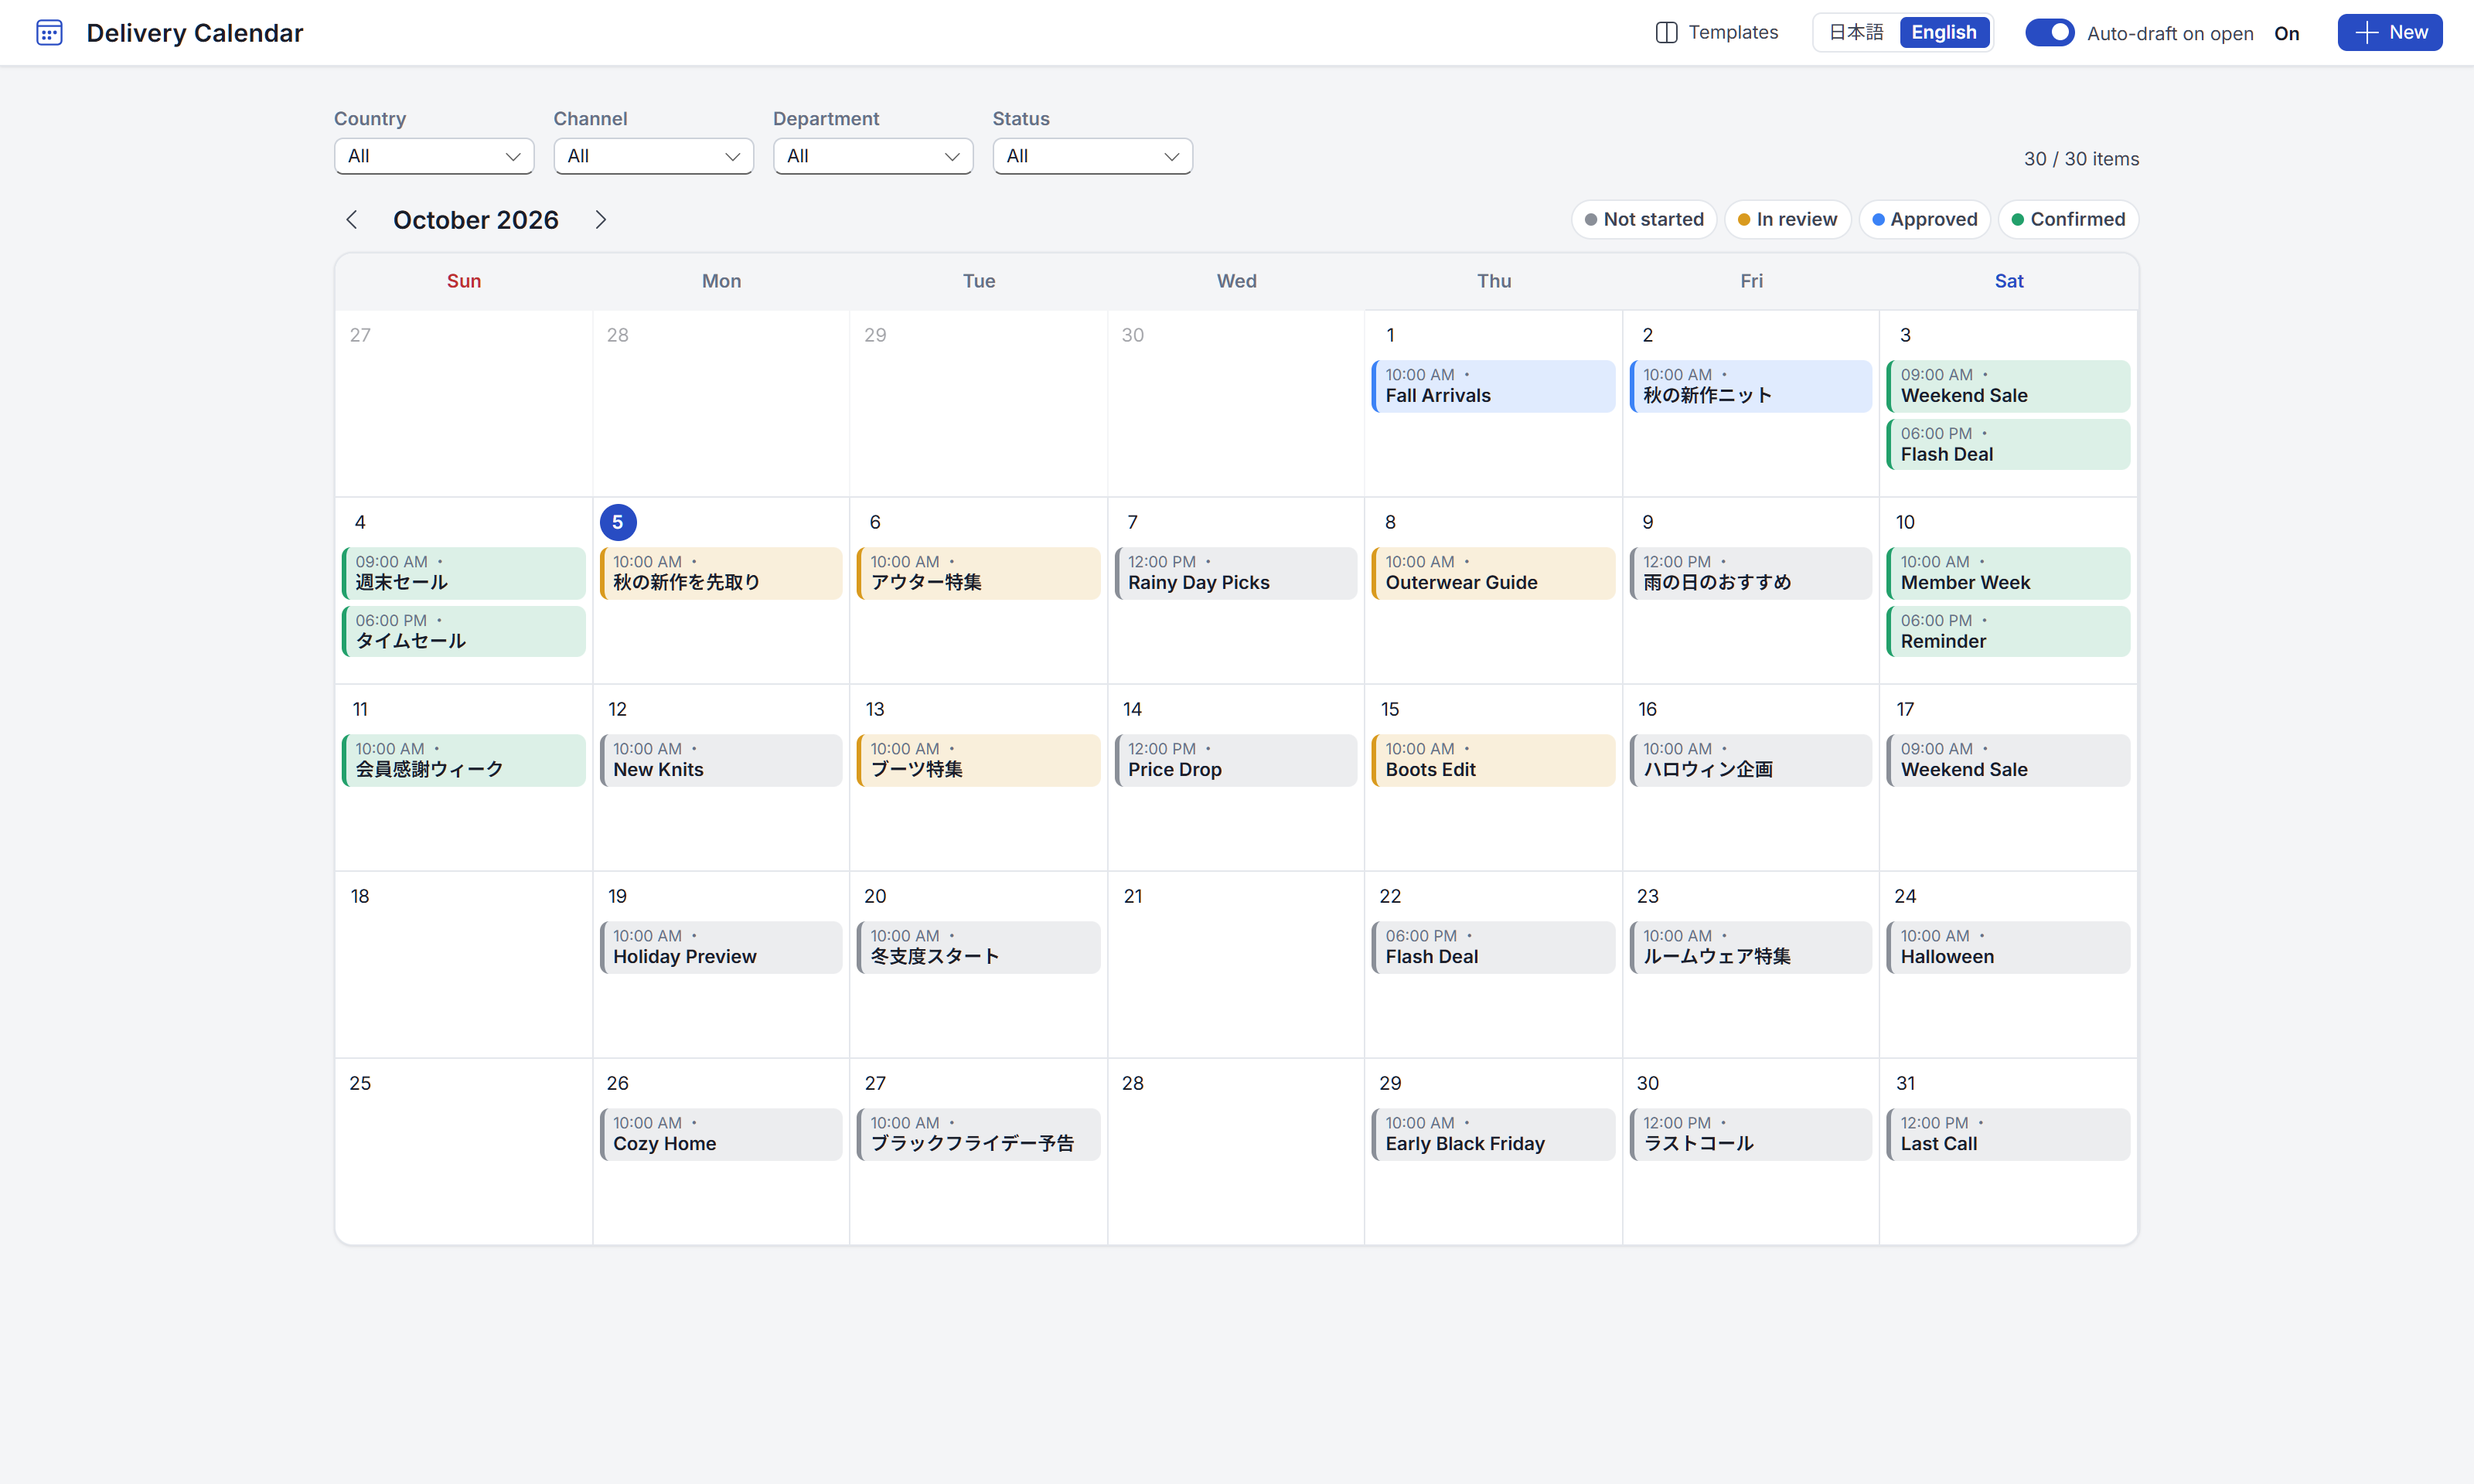
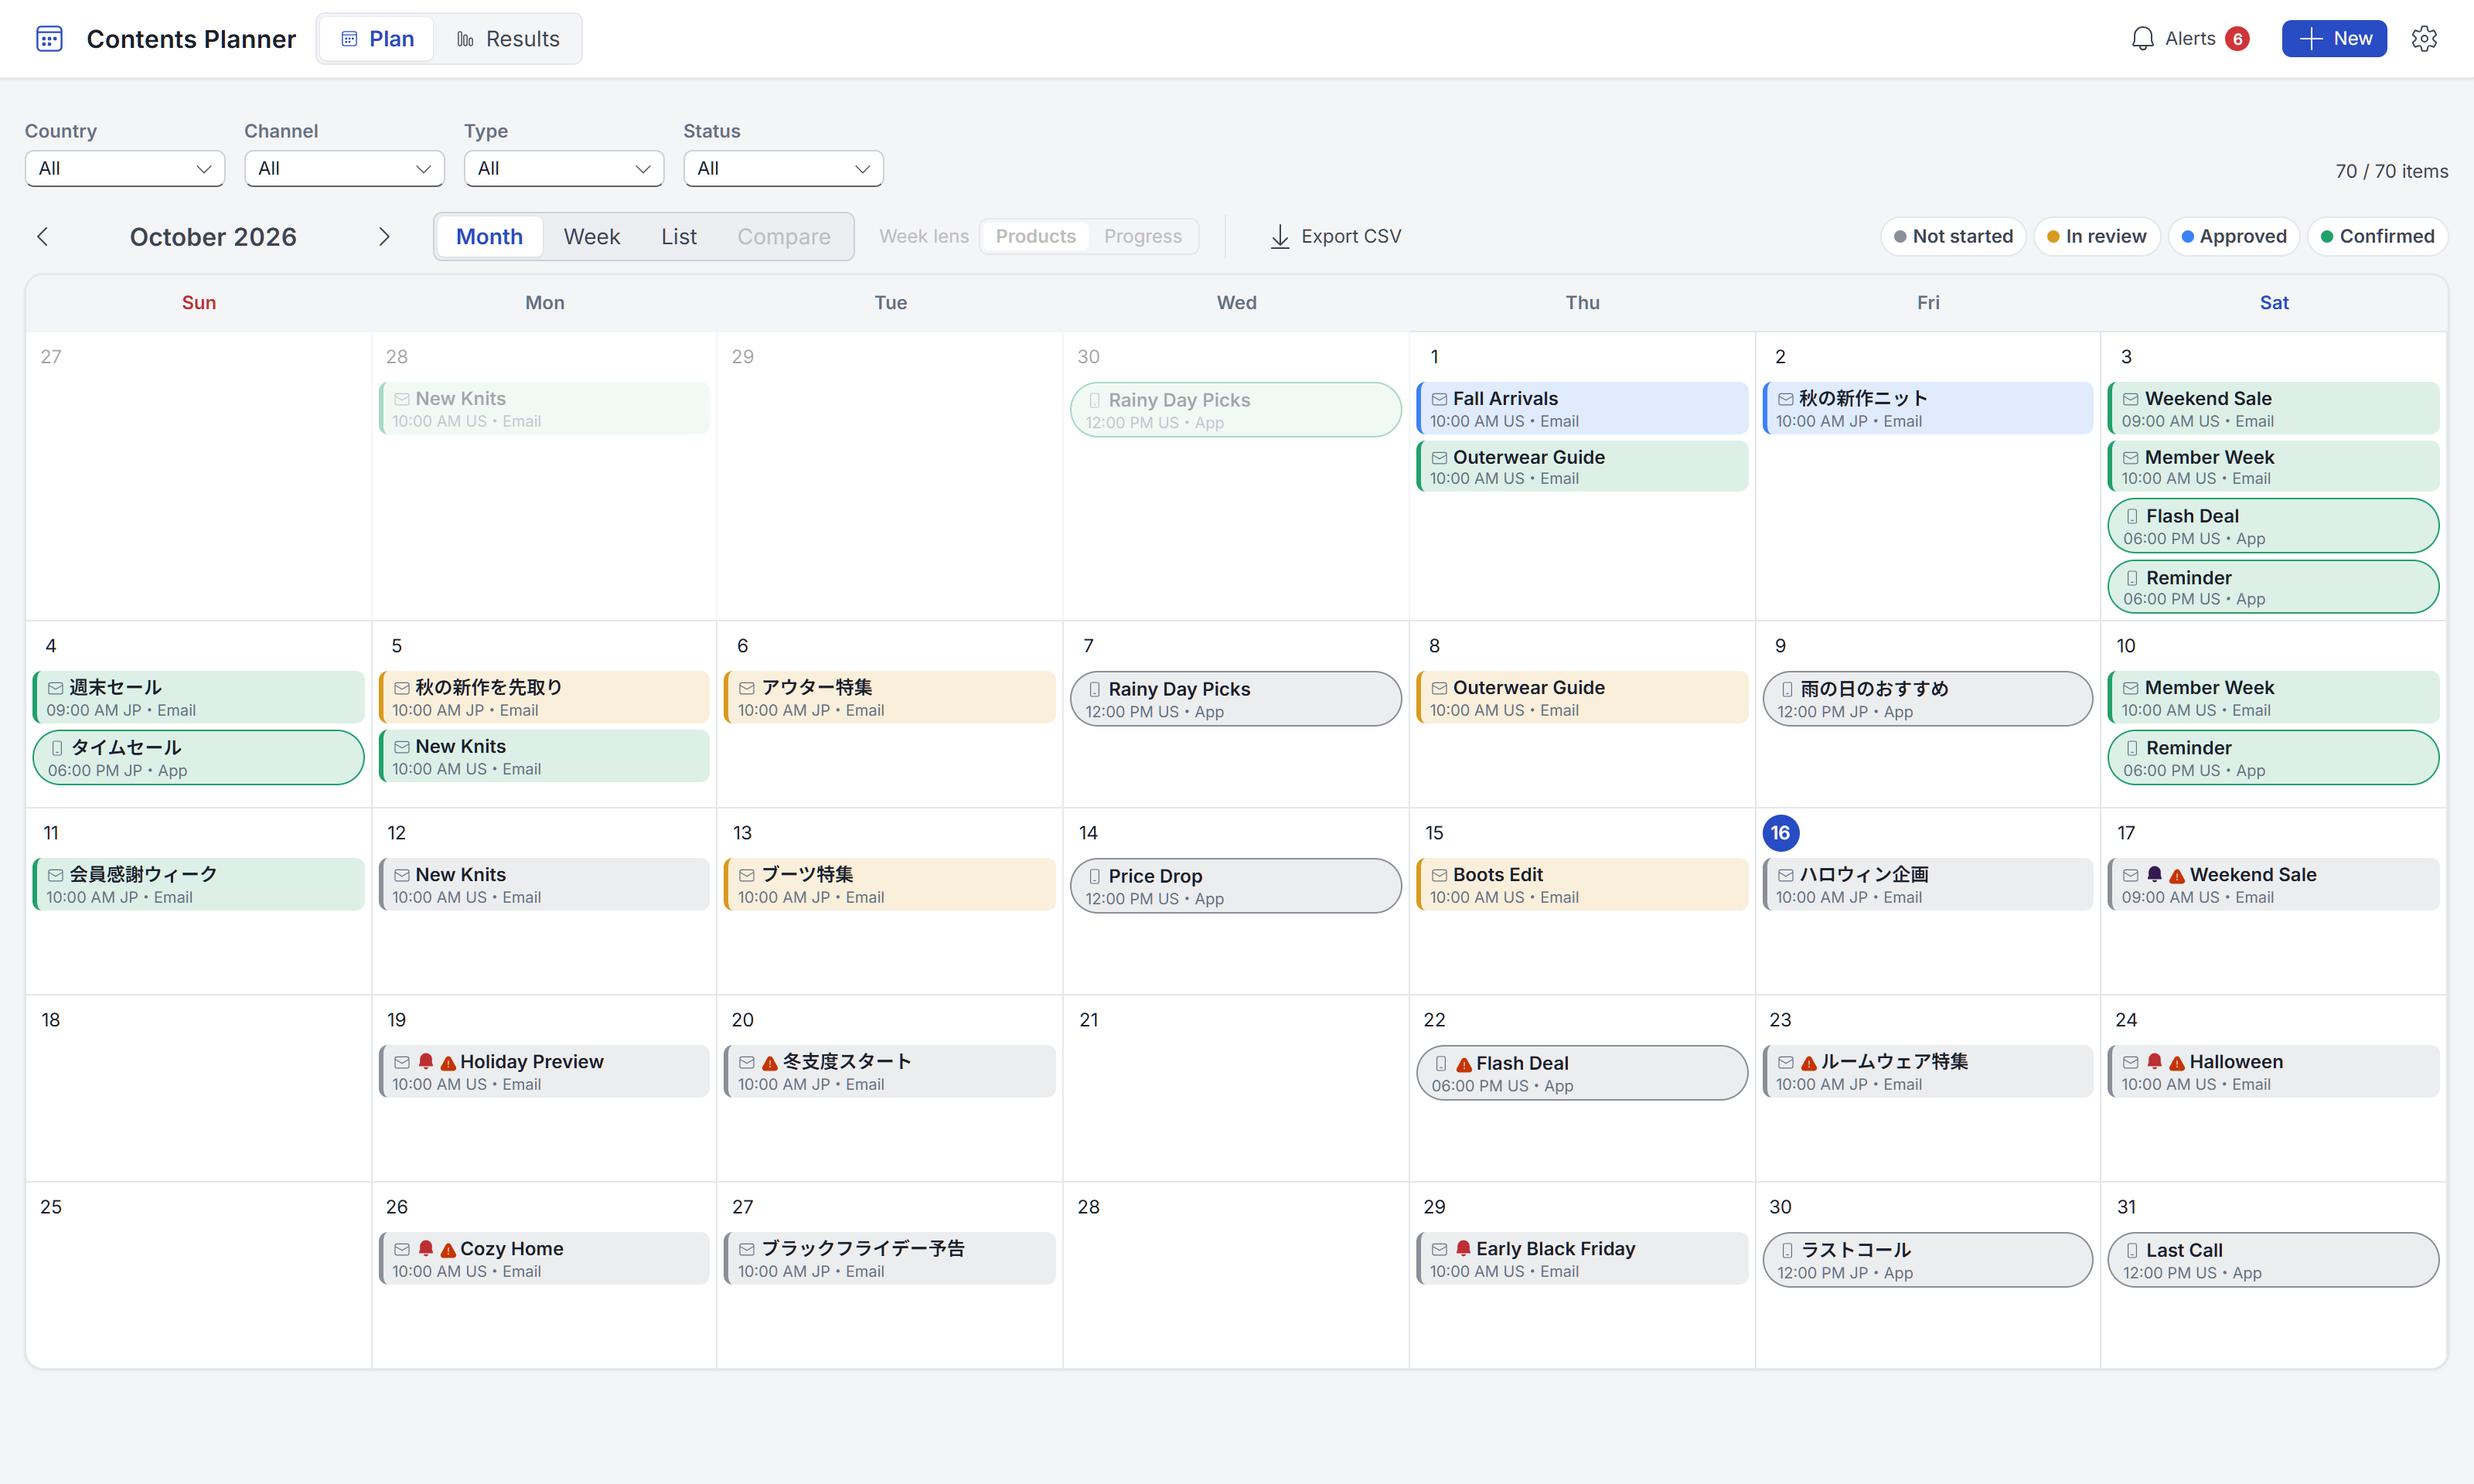
docs: スクリーンショットを、いまの画面で撮り直す(英語版のみ・39 枚)
週の表示・確認の一覧・まとめて AI で下書き・一覧・制作とのやり取り・アプリの工程・結果・アラートの場面を足した。
撮影スクリプトは、テンプレートの管理を ⚙ から開くなど、いまの画面に合わせた。SHOTS_URL・SHOTS_OUT で撮る先と保存先を変えられる。
古い日本語版は消した。

diff --git a/docs/FEATURES.md b/docs/FEATURES.md
@@ -311,25 +311,43 @@
 
 ## 12. スクリーンショット
 
-画面の画像は、**サンプルデータと模擬の AI の返答**で作ったものです(実データは写っていません。AI の文言は決まった例です)。
-ファイル名は `ja-`(日本語の画面)/ `en-`(English の画面)+ 番号 + 内容。2 倍の解像度(PNG)です。
-**注意: いまの画像は、週のレビュー・結果・アラートを作る前の画面です。** ヘッダーなど、いまの画面と違うところがあります。
+画面の画像は、**サンプルデータと模擬の AI の返答**で作ったものです(実データは写っていません。商品・メイン画像はサンプル用のイラストです。AI の文言は決まった例です)。
+ファイル名は `en-`(English の画面)+ 番号 + 内容。2 倍の解像度(PNG)です。
 
 | 番号 | 内容 | 使いどころ |
 |---|---|---|
-| 01-calendar | 配信カレンダー(月表示・状態の色分け・フィルタ) | 画面の流れ、全体像 |
-| 02-card-dialog | 配信カードの 4 ペイン(情報 / コンテンツ生成 + AIチャット / プレビュー / 商品情報) | 中心の画面 |
-| 03-product-info | 右端の商品情報ペインを開いた状態 | 商品情報 |
-| 04-theme 〜 07-sections | コンテンツ生成の各タブ(テーマ / テンプレート / ヒーロー / セクション) | 工程の説明 |
-| 08-ai-theme-ideas | AI のテーマ案(理由つき・「採用」で反映) | AI 支援 |
-| 09-ai-hero | AI のメイン画像の選定と候補 | AI 支援 |
-| 10-ai-section | AI のセクション選定(見出し・コピー・商品) | AI 支援 |
-| 11-ai-chat-update | AI チャットで指示 → 案を作り直し | AI チャット |
-| 12-ai-chat-answer | AI チャットで質問 → 案は変えず回答 | AI チャット |
-| 13-product-detail | 商品の詳細(売上・在庫のグラフ、販売方針、基本情報) | 商品情報 |
-| 14-template-manager | テンプレート管理(標準 + 作成したもの) | テンプレート |
-| 15-template-custom | 作成したテンプレート(特集 1 点 + 3 列グリッド) | テンプレート |
-| 16-template-new | 「新規作成」の入力フォーム(名前・説明・ヒーローの種類・セクション) | テンプレートの作成 |
-| 17-template-duplicate-edit | 標準を「複製して編集」した画面(名前が「…のコピー」になる) | テンプレートの作成 |
-| 18-template-add-section | 「セクションを追加」で、2 つめのセクションを足した状態 | テンプレートの編集 |
-| 19-template-3col | 2 つめを「グリッド(3列)・3点」にして名前を付けた状態(右の見取り図に反映) | テンプレートの編集 |
+| 01-calendar | 計画の面の月のカレンダー(状態の色分け・メールとアプリの見分け・アラートの印) | 画面の流れ、全体像 |
+| 02-mini-calendar | 期間の文字を押して開くミニカレンダー | 期間の移動 |
+| 03-week | 週の表示(週の状態の帯・確認の一覧・縮小プレビュー) | 週のレビュー |
+| 04-week-checklist | 確認の一覧で「主力の漏れ」を選んだ状態(かかわる配信が目立つ) | 週のレビュー |
+| 05-week-progress | 週の見方「進み具合」 | 週のレビュー |
+| 06-bulk-drafts-start | まとめて AI で下書き(国・チャネルを選ぶ) | まとめて作る |
+| 07-bulk-drafts | 下書きモード(AI が作った下書きを、週に並べて確かめる) | まとめて作る |
+| 08-list | 一覧(左にサムネイル・列見出しで並べ替え) | 一覧 |
+| 09-card-dialog | 配信カードの 4 ペイン(情報 / コンテンツ生成 + AIチャット / プレビュー / 商品情報) | 中心の画面 |
+| 10-product-info | 右端の商品情報ペイン | 商品情報 |
+| 11-theme 〜 15-instructions | コンテンツ生成の各工程(テーマ / テンプレート / ヒーロー / セクション / 制作指示) | 工程の説明 |
+| 16-links | リンク先(メイン画像・ボタンごとの URL) | 制作とのやり取り |
+| 17-handoff | 引き継ぎ(制作の担当・期日・質問) | 制作とのやり取り |
+| 18-tasks | タスク | 制作とのやり取り |
+| 19-comments | コメント(スレッド・対応済み) | レビュー |
+| 20-ai-theme-ideas | AI のテーマ案(理由つき・「採用」で反映) | AI 支援 |
+| 21-ai-hero | AI のメイン画像の選定と候補 | AI 支援 |
+| 22-ai-section | AI のセクション選定(見出し・コピー・商品) | AI 支援 |
+| 23-ai-chat-update | AI チャットで指示 → 案を作り直し | AI チャット |
+| 24-ai-chat-answer | AI チャットで質問 → 案は変えず回答 | AI チャット |
+| 25-product-detail | 商品の詳細(売上・在庫のグラフ、販売方針、基本情報) | 商品情報 |
+| 26-app-notification | アプリの配信の「通知」(タイトル・本文・プレビュー) | アプリ |
+| 27-app-timing | アプリの配信の「時刻・相手」(開く画面・送る相手) | アプリ |
+| 28-template-manager | テンプレートの管理(標準 + 作成したもの) | テンプレート |
+| 29-template-new | テンプレートの「新規作成」 | テンプレート |
+| 30-template-duplicate-edit | 標準を「複製して編集」した画面 | テンプレート |
+| 31-results-month | 結果の面の月(売上・開封率・前年比) | 結果 |
+| 32-results-week | 結果の面の週(クリックを重ねたプレビュー) | 結果 |
+| 33-results-list | 結果の一覧 | 結果 |
+| 34-result-detail | 詳しい結果(ヒートマップ・リンクの表・過去との比べ・振り返り) | 結果 |
+| 35-results-compare | 比べる(直近の配信を並べる) | 結果 |
+| 36-alerts | アラートの画面(一覧と、影響を受ける配信) | アラート |
+| 37-alert-replace | 差し替え(AI の候補) | アラート |
+| 38-alert-conditions | アラートの条件 | アラート |
+| 39-card-alerts | アラートから開いた配信カード(「この配信のアラート」の帯) | アラート |
